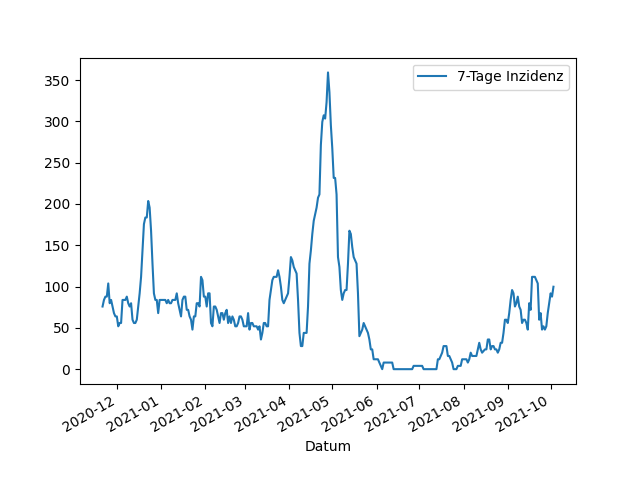
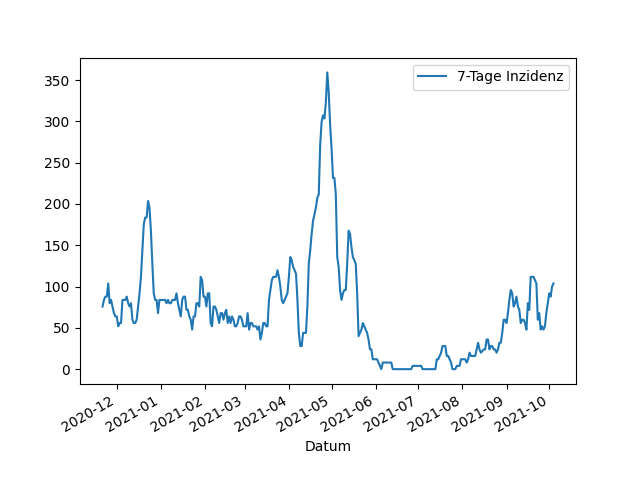
Update images

diff --git a/_includes/aktuelle_inzidenz.md b/_includes/aktuelle_inzidenz.md
@@ -1,1 +1,1 @@
-99,8
+103,8
